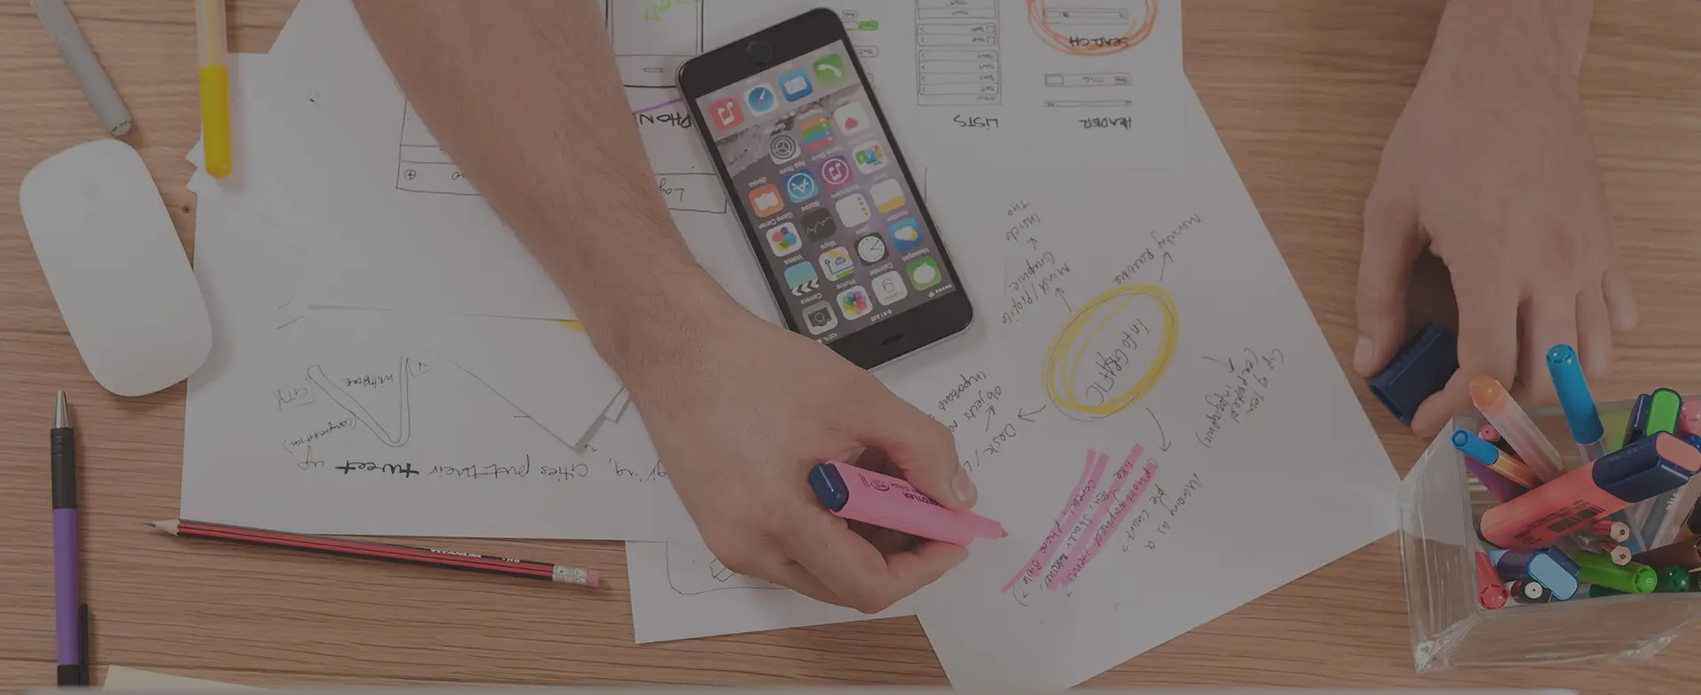
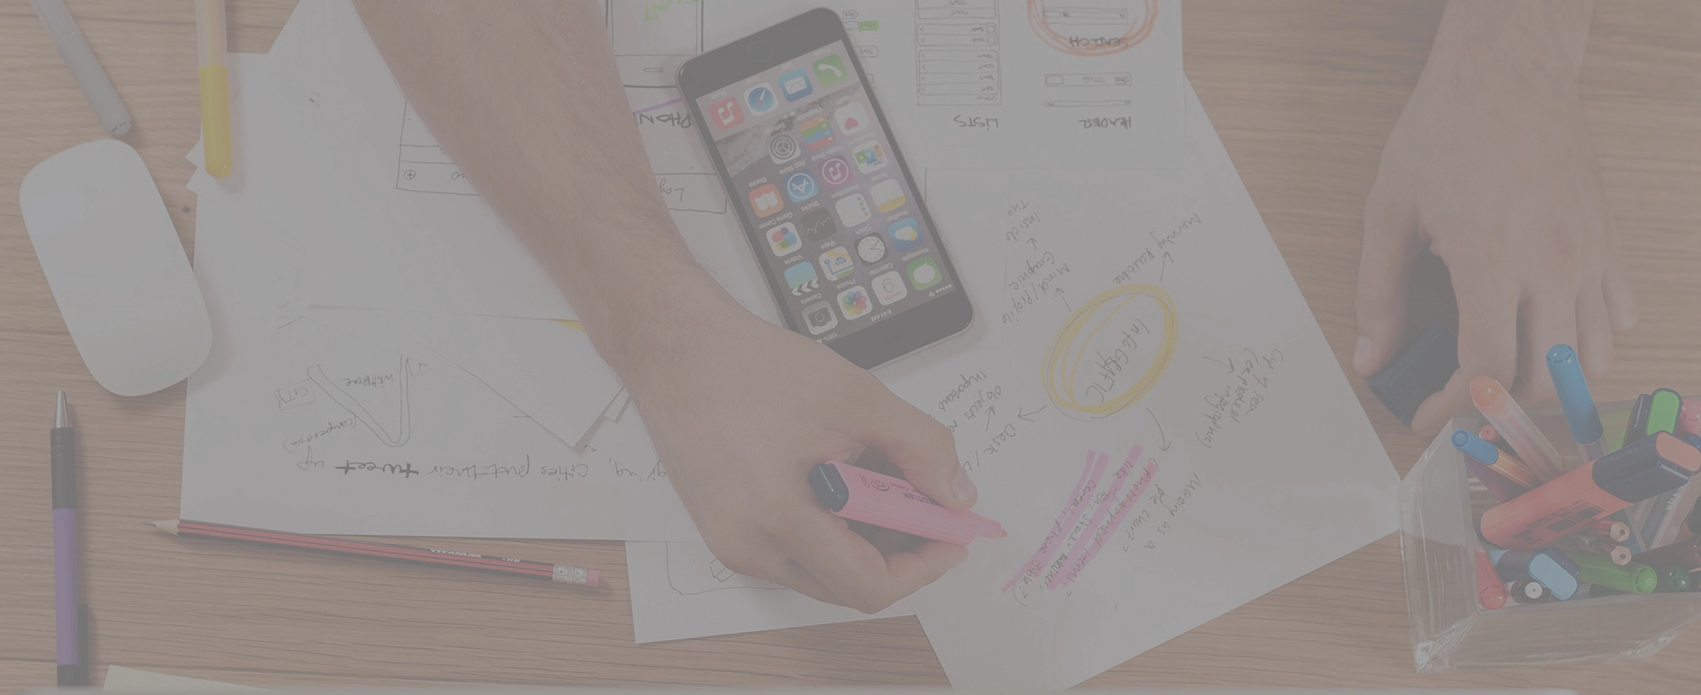
sup page2;html

diff --git a/style.min.css b/style.min.css
@@ -1,1 +1,1 @@
-body{margin:0;padding:0;background:#fff;overflow-x:hidden;-webkit-font-smoothing:antialiased;-moz-osx-font-smoothing:grayscale}a,button{transition:all .3s ease-in-out;outline:0!important}a:hover{text-decoration:none;cursor:pointer}#page-loading-blocs-notifaction{position:fixed;top:0;bottom:0;width:100%;z-index:100000;background:#fff url(img/pageload-spinner.gif) no-repeat center center}.bloc{width:100%;clear:both;background:50% 50% no-repeat;padding:0 50px;-webkit-background-size:cover;-moz-background-size:cover;-o-background-size:cover;background-size:cover;position:relative}.bloc .container{padding-left:0;padding-right:0}.bloc-lg{padding:100px 50px}.bloc-md{padding:50px}.bloc-sm{padding:20px 50px}.bg-b-edge,.bg-bl-edge,.bg-br-edge,.bg-center,.bg-l-edge,.bg-r-edge,.bg-repeat,.bg-t-edge,.bg-tl-edge,.bg-tr-edge{-webkit-background-size:auto!important;-moz-background-size:auto!important;-o-background-size:auto!important;background-size:auto!important}.bg-repeat{background:repeat}.bg-t-edge{background:top no-repeat}.bloc-bg-texture::before{content:"";background-size:2px 2px;position:absolute;top:0;bottom:0;left:0;right:0}.texture-paper::before{background:url(img/texture-paper.png);background-size:280px 280px}.b-parallax{background-attachment:fixed}.d-bloc{color:rgba(255,255,255,.7)}.d-bloc button:hover{color:rgba(255,255,255,.9)}.d-bloc .icon-round,.d-bloc .icon-rounded,.d-bloc .icon-semi-rounded-a,.d-bloc .icon-semi-rounded-b,.d-bloc .icon-square{border-color:rgba(255,255,255,.9)}.d-bloc .divider-h span{border-color:rgba(255,255,255,.2)}.d-bloc .a-btn,.d-bloc .navbar a,.d-bloc .navbar-brand,.d-bloc a .icon-lg,.d-bloc a .icon-md,.d-bloc a .icon-sm,.d-bloc a .icon-xl,.d-bloc h1 a,.d-bloc h2 a,.d-bloc h3 a,.d-bloc h4 a,.d-bloc h5 a,.d-bloc h6 a,.d-bloc p a{color:rgba(255,255,255,.6)}.d-bloc .a-btn:hover,.d-bloc .navbar a:hover,.d-bloc .navbar-brand:hover,.d-bloc a:hover .icon-lg,.d-bloc a:hover .icon-md,.d-bloc a:hover .icon-sm,.d-bloc a:hover .icon-xl,.d-bloc h1 a:hover,.d-bloc h2 a:hover,.d-bloc h3 a:hover,.d-bloc h4 a:hover,.d-bloc h5 a:hover,.d-bloc h6 a:hover,.d-bloc p a:hover{color:rgba(255,255,255,1)}.d-bloc .navbar-toggle .icon-bar{background:rgba(255,255,255,1)}.d-bloc .btn-wire,.d-bloc .btn-wire:hover{color:rgba(255,255,255,1);border-color:rgba(255,255,255,1)}.d-bloc .panel{color:rgba(0,0,0,.5)}.d-bloc .panel button:hover{color:rgba(0,0,0,.7)}.d-bloc .panel icon{border-color:rgba(0,0,0,.7)}.d-bloc .panel .divider-h span{border-color:rgba(0,0,0,.1)}.d-bloc .panel .a-btn{color:rgba(0,0,0,.6)}.d-bloc .panel .a-btn:hover{color:rgba(0,0,0,1)}.d-bloc .panel .btn-wire,.d-bloc .panel .btn-wire:hover{color:rgba(0,0,0,.7);border-color:rgba(0,0,0,.3)}.d-bloc .panel,.l-bloc{color:rgba(0,0,0,.5)}.d-bloc .panel button:hover,.l-bloc button:hover{color:rgba(0,0,0,.7)}.l-bloc .icon-round,.l-bloc .icon-rounded,.l-bloc .icon-semi-rounded-a,.l-bloc .icon-semi-rounded-b,.l-bloc .icon-square{border-color:rgba(0,0,0,.7)}.d-bloc .panel .divider-h span,.l-bloc .divider-h span{border-color:rgba(0,0,0,.1)}.d-bloc .panel .a-btn,.l-bloc .a-btn,.l-bloc .navbar a,.l-bloc .navbar-brand,.l-bloc a .icon-lg,.l-bloc a .icon-md,.l-bloc a .icon-sm,.l-bloc a .icon-xl,.l-bloc h1 a,.l-bloc h2 a,.l-bloc h3 a,.l-bloc h4 a,.l-bloc h5 a,.l-bloc h6 a,.l-bloc p a{color:rgba(0,0,0,.6)}.d-bloc .panel .a-btn:hover,.l-bloc .a-btn:hover,.l-bloc .navbar a:hover,.l-bloc .navbar-brand:hover,.l-bloc a:hover .icon-lg,.l-bloc a:hover .icon-md,.l-bloc a:hover .icon-sm,.l-bloc a:hover .icon-xl,.l-bloc h1 a:hover,.l-bloc h2 a:hover,.l-bloc h3 a:hover,.l-bloc h4 a:hover,.l-bloc h5 a:hover,.l-bloc h6 a:hover,.l-bloc p a:hover{color:rgba(0,0,0,1)}.l-bloc .navbar-toggle .icon-bar{color:rgba(0,0,0,.6)}.d-bloc .panel .btn-wire,.d-bloc .panel .btn-wire:hover,.l-bloc .btn-wire,.l-bloc .btn-wire:hover{color:rgba(0,0,0,.7);border-color:rgba(0,0,0,.3)}.voffset{margin-top:30px}.voffset-lg{margin-top:80px}.row-no-gutters{margin-right:0;margin-left:0}.row.row-no-gutters>[class*=" col-"],.row.row-no-gutters>[class^=col-]{padding-right:0;padding-left:0}#bloc-1-hero h1{font-size:32px}.navbar{margin-bottom:0;z-index:1}.navbar-brand{height:auto;padding:3px 15px;font-size:25px;font-weight:400;font-weight:600;line-height:44px}.navbar-brand img{max-height:200px;margin:0 5px 0 0;display:inline}.navbar-brand img[src$=svg]{min-width:100px}.nav-center .navbar-brand img{margin:0}.navbar .nav{padding-top:2px;margin-right:-16px;float:right;z-index:1}.nav>li{float:left;margin-top:4px;font-size:16px}.navbar-nav .open .dropdown-menu>li>a{text-align:inherit}.nav>li a:focus,.nav>li a:hover{background:0 0}.navbar-toggle{margin:10px 10px 0 0;border:0}.navbar-toggle:hover{background:0 0!important}.navbar-toggle .icon-bar{background-color:rgba(0,0,0,.5);width:26px}.nav-invert .navbar .nav{float:left}.nav-invert .navbar-brand,.nav-invert .navbar-header{float:right;position:relative;z-index:2}@media (min-width:768px){.site-navigation{position:absolute;top:50%;right:20px;transform:translate(0,-50%);-webkit-transform:translateY(-50%)}.nav>li .dropdown-menu a,.nav>li .dropdown-menu a:hover{color:#484848}.nav-invert .site-navigation{left:0;right:0}.nav-center{text-align:center}.nav-center .navbar-header{width:100%}.nav-center .nav>li,.nav-center .navbar-brand,.nav-center .navbar-header{float:none;display:inline-block}.nav-center .site-navigation{position:relative;width:100%;right:0;margin-right:0;margin-top:20px}.nav-center.mini-nav .navbar-toggle{float:none;margin:10px auto 0}}.nav>li>.dropdown a{background:0 0!important;display:block;padding:14px 15px}nav .caret{margin:0 5px}.dropdown-menu .dropdown-menu{top:-8px;left:100%}.dropdown-menu .dropmenu-flow-right{top:100%;left:0;margin-left:-1px;border-top-left-radius:0;border-top-right-radius:0}.dropdown-menu .dropdown span{border:4px solid #000;border-top-color:transparent;border-right-color:transparent;border-bottom-color:transparent;margin:6px -5px 0 0!important;float:right}.mg-md{margin-top:10px;margin-bottom:20px}.mg-lg{margin-top:10px;margin-bottom:40px}.btn{margin:0 5px 5px 0}.btn.pull-right{margin:0 0 5px 5px}.btn-d,.btn-d:focus,.btn-d:hover{color:#fff;background:rgba(0,0,0,.3)}button{outline:0!important}.btn-rd{border-radius:40px}.btn-clean{border:1px solid rgba(0,0,0,.08);border-bottom-color:rgba(0,0,0,.1);text-shadow:0 1px 0 rgba(0,0,1,.1);box-shadow:0 1px 3px rgba(0,0,1,.25),inset 0 1px 0 0 rgba(255,255,255,.15)}.icon-md{font-size:30px!important}.icon-lg{font-size:60px!important}.sm-shadow{text-shadow:0 1px 2px rgba(0,0,0,.3)}.panel-sq,.panel-sq .panel-footer,.panel-sq .panel-heading{border-radius:0}.panel-rd{border-radius:30px}.panel-rd .panel-heading{border-radius:29px 29px 0 0}.panel-rd .panel-footer{border-radius:0 0 29px 29px}.form-control{border-color:rgba(0,0,0,.1);box-shadow:none}.scrollToTop{width:40px;height:40px;position:fixed;bottom:20px;right:20px;opacity:0;z-index:500;transition:all .3s ease-in-out}.scrollToTop span{margin-top:6px}.showScrollTop{font-size:14px;opacity:1}a[data-lightbox]{position:relative;display:block;text-align:center}a[data-lightbox]:hover::before{content:"+";font-family:HelveticaNeue-Light,"Helvetica Neue Light","Helvetica Neue",Helvetica,Arial;font-size:32px;width:50px;height:50px;margin-left:-25px;border-radius:50%;background:rgba(0,0,0,.6);color:#fff;font-weight:100;z-index:1;position:absolute;top:50%;transform:translateY(-50%);-webkit-transform:translateY(-50%)}a[data-lightbox]:hover img{opacity:.6;-webkit-animation-fill-mode:none;animation-fill-mode:none}#lightbox-modal{display:flex;align-items:center}#lightbox-modal .modal-dialog{width:90%;max-width:900px;margin:0 auto 0}#lightbox-modal .modal-dialog img{max-height:90vh;margin:0 auto}.lightbox-caption{padding:20px;color:#fff;background:rgba(0,0,0,.5);position:absolute;left:15px;right:15px;bottom:5px}.close-lightbox{color:#fff;font-size:30px;position:absolute;top:20px;right:20px;z-index:20;background:rgba(0,0,0,.5);border:none;line-height:30px;padding:0 9px 5px;opacity:.3}.close-lightbox:hover,.next-lightbox:hover,.prev-lightbox:hover{opacity:1;color:#fff}.next-lightbox,.prev-lightbox{font-size:20px;color:rgba(255,255,255,.9);background:rgba(0,0,0,.5);transition:all .2s ease-in-out;position:absolute;top:45%;z-index:1;opacity:.4}.next-lightbox{padding:6px 8px 1px 13px;right:25px}.prev-lightbox{padding:6px 13px 1px 10px;left:25px}.snapshot-lb .modal-body{padding-bottom:45px}.snapshot-lb .lightbox-caption{padding:0;color:rgba(0,0,0,.5);background:0 0}.btn,a,h1,h2,h3,h4,h5,h6,label,p{font-family:helvetica;font-weight:400;color:#575757!important}.container{max-width:1000px}.hero-bloc-text{font-size:38px}.hero-bloc-text-sub{font-size:36px}.statement-bloc-text{line-height:26px;font-style:italic;font-size:20px;text-align:center;font-weight:lighter;max-width:520px;margin:auto auto auto auto}p{font-size:14px}.tight-width-whitespace{max-width:600px;margin:auto auto auto auto}.h1{font-size:20px;font-family:"Open Sans"}.cta-hero{margin-top:22px;color:#fff!important;text-transform:uppercase;padding:12px 28px 12px 28px;font-size:16px;font-weight:700}.social{max-width:400px;margin:auto auto auto auto}h2{font-size:22px;line-height:1.4em}h3{font-size:15px;text-transform:uppercase;font-weight:700;color:#333!important}.med-width-whitespace{max-width:800px;margin:auto auto auto auto;box-shadow:0 0 0 #000}h1{color:#333!important}h4{color:#333!important}.icons{margin-bottom:14px;margin-top:24px}.white{color:#fff!important}.portfolio-thumb{margin-bottom:24px}.portfolio-row{margin-bottom:44px;margin-top:50px}.avatar{box-shadow:0 4px 9px rgba(0,0,0,.3)}.black-background{background-color:rgba(165,147,99,.7);padding:40px 40px 40px 40px}.bold-link{font-weight:900;text-decoration:underline!important}.bgc-white{background-color:#fff}.bgc-dark-slate-blue{background-color:#364577}.bgc-atomic-tangerine{background-color:#f3976c}.tc-white{color:#f3976c!important}.btn-atomic-tangerine{background:#f3976c;color:#fff!important}.btn-atomic-tangerine:hover{background:#c27956!important;color:#fff!important}.ltc-white{color:#fff!important}.ltc-white:hover{color:#ccc!important}.ltc-atomic-tangerine{color:#f3976c!important}.ltc-atomic-tangerine:hover{color:#c27956!important}.icon-dark-slate-blue{color:#364577!important;border-color:#364577!important}.bg-dots-bg{background-image:url(img/dots-bg.png)}.bg-lines-h2-bg{background-image:url(img/lines-h2-bg.png)}.bg-banniere{background-image:url(img/agence-la-panthere.webp)}.bg-presentation{background-image:url(img/image-de-presentation.webp)}@media (max-width:1024px){.bloc{padding-left:20px;padding-right:20px}.bloc-tile-2.full-width-bloc .container,.bloc-tile-3.full-width-bloc .container,.bloc-tile-4.full-width-bloc .container,.bloc.full-width-bloc{padding-left:0;padding-right:0}}@media (max-width:992px) and (min-width:768px){.navbar .nav{max-width:80%}.nav-center.navbar .nav{max-width:100%}}@media only screen and (min-device-width:768px) and (max-device-width:1024px) and (orientation:landscape){.b-parallax{background-attachment:scroll}}@media only screen and (min-device-width:1024px) and (max-device-width:1366px) and (-webkit-min-device-pixel-ratio:1.5){.b-parallax{background-attachment:scroll}}@media (max-width:991px){.container{width:100%}.b-parallax{background-attachment:scroll}#hero-bloc,.page-container{overflow-x:hidden;position:relative}.bloc{padding-left:constant(safe-area-inset-left);padding-right:constant(safe-area-inset-right)}.bloc-group,.bloc-group .bloc{display:block;width:100%}.bloc-fill-screen .fill-bloc-bottom-edge,.bloc-fill-screen .fill-bloc-top-edge{padding:0 20px;padding-left:constant(safe-area-inset-left);padding-right:constant(safe-area-inset-right)}}@media (max-width:767px){.page-container{overflow-x:hidden;position:relative}#disqus_thread,h1,h2,h3,h4,h5,h6,p{padding-left:10px!important;padding-right:10px!important}.b-parallax{background-attachment:scroll}.navbar .nav{padding-top:0;border-top:1px solid rgba(0,0,0,.2);float:none!important}.navbar.row{margin-left:0;margin-right:0}.site-navigation{position:inherit;transform:none;-webkit-transform:none;-ms-transform:none}.nav>li{margin-top:0;border-bottom:1px solid rgba(0,0,0,.1);background:rgba(0,0,0,.05);text-align:left;padding-left:15px;width:100%}.nav>li:hover{background:rgba(0,0,0,.08)}.dropdown .dropdown a .caret{float:none;margin:5px 0 0 10px!important;border:4px solid #000;border-bottom-color:transparent;border-right-color:transparent;border-left-color:transparent}#hero-bloc .navbar .nav{background:rgba(0,0,0,.8)}#hero-bloc .navbar .nav a{color:rgba(255,255,255,.6)}.hero{padding:50px 0}.hero-nav{left:-1px;right:-1px}.navbar-collapse{padding:0;overflow-x:hidden;-webkit-box-shadow:none;box-shadow:none}.navbar-brand img{max-height:40px;width:auto}.nav-invert .navbar-header{float:none;width:100%}.nav-invert .navbar-toggle{float:left;margin-left:10px}.bloc{padding-left:0;padding-right:0}.bloc-lg,.bloc-xl,.bloc-xxl{padding:40px 0}.bloc-md,.bloc-sm{padding-left:0;padding-right:0}.bloc-fill-screen .fill-bloc-bottom-edge,.bloc-fill-screen .fill-bloc-top-edge,.bloc-tile-2 .container,.bloc-tile-3 .container,.bloc-tile-4 .container{padding-left:0;padding-right:0}.a-block{padding:0 10px}.btn-dwn{display:none}.voffset{margin-top:5px}.voffset-md{margin-top:20px}.voffset-lg{margin-top:30px}form{padding:5px}.close-lightbox{display:inline-block}.blocsapp-device-iphone5{background-size:216px 425px;padding-top:60px;width:216px;height:425px}.blocsapp-device-iphone5 img{width:180px;height:320px}}@media (max-width:400px){.bloc{padding-left:0;padding-right:0}}@media (max-width:767px){.bloc-mob-center-text{text-align:center}}
+body{margin:0;padding:0;background:#fff;overflow-x:hidden;-webkit-font-smoothing:antialiased;-moz-osx-font-smoothing:grayscale}a,button{transition:all .3s ease-in-out;outline:0!important}a:hover{text-decoration:none;cursor:pointer}#page-loading-blocs-notifaction{position:fixed;top:0;bottom:0;width:100%;z-index:100000;background:#fff url(img/pageload-spinner.gif) no-repeat center center}.bloc{width:100%;clear:both;background:50% 50% no-repeat;padding:0 50px;-webkit-background-size:cover;-moz-background-size:cover;-o-background-size:cover;background-size:cover;position:relative}.bloc .container{padding-left:0;padding-right:0}.bloc-lg{padding:100px 50px}.bloc-md{padding:50px}.bloc-sm{padding:20px 50px}.bg-b-edge,.bg-bl-edge,.bg-br-edge,.bg-center,.bg-l-edge,.bg-r-edge,.bg-repeat,.bg-t-edge,.bg-tl-edge,.bg-tr-edge{-webkit-background-size:auto!important;-moz-background-size:auto!important;-o-background-size:auto!important;background-size:auto!important}.bg-repeat{background:repeat}.bg-t-edge{background:top no-repeat}.bloc-bg-texture::before{content:"";background-size:2px 2px;position:absolute;top:0;bottom:0;left:0;right:0}.texture-paper::before{background:url(img/texture-paper.png);background-size:280px 280px}.b-parallax{background-attachment:fixed}.d-bloc{color:rgba(255,255,255,.7)}.d-bloc button:hover{color:rgba(255,255,255,.9)}.d-bloc .icon-round,.d-bloc .icon-rounded,.d-bloc .icon-semi-rounded-a,.d-bloc .icon-semi-rounded-b,.d-bloc .icon-square{border-color:rgba(255,255,255,.9)}.d-bloc .divider-h span{border-color:rgba(255,255,255,.2)}.d-bloc .a-btn,.d-bloc .navbar a,.d-bloc .navbar-brand,.d-bloc a .icon-lg,.d-bloc a .icon-md,.d-bloc a .icon-sm,.d-bloc a .icon-xl,.d-bloc h1 a,.d-bloc h2 a,.d-bloc h3 a,.d-bloc h4 a,.d-bloc h5 a,.d-bloc h6 a,.d-bloc p a{color:rgba(255,255,255,.6)}.d-bloc .a-btn:hover,.d-bloc .navbar a:hover,.d-bloc .navbar-brand:hover,.d-bloc a:hover .icon-lg,.d-bloc a:hover .icon-md,.d-bloc a:hover .icon-sm,.d-bloc a:hover .icon-xl,.d-bloc h1 a:hover,.d-bloc h2 a:hover,.d-bloc h3 a:hover,.d-bloc h4 a:hover,.d-bloc h5 a:hover,.d-bloc h6 a:hover,.d-bloc p a:hover{color:rgba(255,255,255,1)}.d-bloc .navbar-toggle .icon-bar{background:rgba(255,255,255,1)}.d-bloc .btn-wire,.d-bloc .btn-wire:hover{color:rgba(255,255,255,1);border-color:rgba(255,255,255,1)}.d-bloc .panel{color:rgba(0,0,0,.5)}.d-bloc .panel button:hover{color:rgba(0,0,0,.7)}.d-bloc .panel icon{border-color:rgba(0,0,0,.7)}.d-bloc .panel .divider-h span{border-color:rgba(0,0,0,.1)}.d-bloc .panel .a-btn{color:rgba(0,0,0,.6)}.d-bloc .panel .a-btn:hover{color:rgba(0,0,0,1)}.d-bloc .panel .btn-wire,.d-bloc .panel .btn-wire:hover{color:rgba(0,0,0,.7);border-color:rgba(0,0,0,.3)}.d-bloc .panel,.l-bloc{color:rgba(0,0,0,.5)}.d-bloc .panel button:hover,.l-bloc button:hover{color:rgba(0,0,0,.7)}.l-bloc .icon-round,.l-bloc .icon-rounded,.l-bloc .icon-semi-rounded-a,.l-bloc .icon-semi-rounded-b,.l-bloc .icon-square{border-color:rgba(0,0,0,.7)}.d-bloc .panel .divider-h span,.l-bloc .divider-h span{border-color:rgba(0,0,0,.1)}.d-bloc .panel .a-btn,.l-bloc .a-btn,.l-bloc .navbar a,.l-bloc .navbar-brand,.l-bloc a .icon-lg,.l-bloc a .icon-md,.l-bloc a .icon-sm,.l-bloc a .icon-xl,.l-bloc h1 a,.l-bloc h2 a,.l-bloc h3 a,.l-bloc h4 a,.l-bloc h5 a,.l-bloc h6 a,.l-bloc p a{color:rgba(0,0,0,.6)}.d-bloc .panel .a-btn:hover,.l-bloc .a-btn:hover,.l-bloc .navbar a:hover,.l-bloc .navbar-brand:hover,.l-bloc a:hover .icon-lg,.l-bloc a:hover .icon-md,.l-bloc a:hover .icon-sm,.l-bloc a:hover .icon-xl,.l-bloc h1 a:hover,.l-bloc h2 a:hover,.l-bloc h3 a:hover,.l-bloc h4 a:hover,.l-bloc h5 a:hover,.l-bloc h6 a:hover,.l-bloc p a:hover{color:rgba(0,0,0,1)}.l-bloc .navbar-toggle .icon-bar{color:rgba(0,0,0,.6)}.d-bloc .panel .btn-wire,.d-bloc .panel .btn-wire:hover,.l-bloc .btn-wire,.l-bloc .btn-wire:hover{color:rgba(0,0,0,.7);border-color:rgba(0,0,0,.3)}.voffset{margin-top:30px}.voffset-lg{margin-top:80px}.row-no-gutters{margin-right:0;margin-left:0}.row.row-no-gutters>[class*=" col-"],.row.row-no-gutters>[class^=col-]{padding-right:0;padding-left:0}#bloc-1-hero h1{font-size:32px}.navbar{margin-bottom:0;z-index:1}.navbar-brand{height:auto;padding:3px 15px;font-size:25px;font-weight:400;font-weight:600;line-height:44px}.navbar-brand img{max-height:200px;margin:0 5px 0 0;display:inline}.navbar-brand img[src$=svg]{min-width:100px}.nav-center .navbar-brand img{margin:0}.navbar .nav{padding-top:2px;margin-right:-16px;float:right;z-index:1}.nav>li{float:left;margin-top:4px;font-size:16px}.navbar-nav .open .dropdown-menu>li>a{text-align:inherit}.nav>li a:focus,.nav>li a:hover{background:0 0}.navbar-toggle{margin:10px 10px 0 0;border:0}.navbar-toggle:hover{background:0 0!important}.navbar-toggle .icon-bar{background-color:rgba(0,0,0,.5);width:26px}.nav-invert .navbar .nav{float:left}.nav-invert .navbar-brand,.nav-invert .navbar-header{float:right;position:relative;z-index:2}.navbar-header{text-align:center}@media (min-width:768px){.site-navigation{position:absolute;top:50%;right:20px;transform:translate(0,-50%);-webkit-transform:translateY(-50%)}.nav>li .dropdown-menu a,.nav>li .dropdown-menu a:hover{color:#484848}.nav-invert .site-navigation{left:0;right:0}.nav-center{text-align:center}.nav-center .navbar-header{width:100%}.nav-center .nav>li,.nav-center .navbar-brand,.nav-center .navbar-header{float:none;display:inline-block}.navbar-header{text-align:center}.nav-center .site-navigation{position:relative;width:100%;right:0;margin-right:0;margin-top:20px}.nav-center.mini-nav .navbar-toggle{float:none;margin:10px auto 0}}.nav>li>.dropdown a{background:0 0!important;display:block;padding:14px 15px}nav .caret{margin:0 5px}.dropdown-menu .dropdown-menu{top:-8px;left:100%}.dropdown-menu .dropmenu-flow-right{top:100%;left:0;margin-left:-1px;border-top-left-radius:0;border-top-right-radius:0}.dropdown-menu .dropdown span{border:4px solid #000;border-top-color:transparent;border-right-color:transparent;border-bottom-color:transparent;margin:6px -5px 0 0!important;float:right}.mg-md{margin-top:10px;margin-bottom:20px}.mg-lg{margin-top:10px;margin-bottom:40px}.btn{margin:0 5px 5px 0}.btn.pull-right{margin:0 0 5px 5px}.btn-d,.btn-d:focus,.btn-d:hover{color:#fff;background:rgba(0,0,0,.3)}button{outline:0!important}.btn-rd{border-radius:40px}.btn-clean{border:1px solid rgba(0,0,0,.08);border-bottom-color:rgba(0,0,0,.1);text-shadow:0 1px 0 rgba(0,0,1,.1);box-shadow:0 1px 3px rgba(0,0,1,.25),inset 0 1px 0 0 rgba(255,255,255,.15)}.icon-md{font-size:30px!important}.icon-lg{font-size:60px!important}.sm-shadow{text-shadow:0 1px 2px rgba(0,0,0,.3)}.panel-sq,.panel-sq .panel-footer,.panel-sq .panel-heading{border-radius:0}.panel-rd{border-radius:30px}.panel-rd .panel-heading{border-radius:29px 29px 0 0}.panel-rd .panel-footer{border-radius:0 0 29px 29px}.form-control{border-color:rgba(0,0,0,.1);box-shadow:none}.scrollToTop{width:40px;height:40px;position:fixed;bottom:20px;right:20px;opacity:0;z-index:500;transition:all .3s ease-in-out}.scrollToTop span{margin-top:6px}.showScrollTop{font-size:14px;opacity:1}a[data-lightbox]{position:relative;display:block;text-align:center}a[data-lightbox]:hover::before{content:"+";font-family:HelveticaNeue-Light,"Helvetica Neue Light","Helvetica Neue",Helvetica,Arial;font-size:32px;width:50px;height:50px;margin-left:-25px;border-radius:50%;background:rgba(0,0,0,.6);color:#fff;font-weight:100;z-index:1;position:absolute;top:50%;transform:translateY(-50%);-webkit-transform:translateY(-50%)}a[data-lightbox]:hover img{opacity:.6;-webkit-animation-fill-mode:none;animation-fill-mode:none}#lightbox-modal{display:flex;align-items:center}#lightbox-modal .modal-dialog{width:90%;max-width:900px;margin:0 auto 0}#lightbox-modal .modal-dialog img{max-height:90vh;margin:0 auto}.lightbox-caption{padding:20px;color:#fff;background:rgba(0,0,0,.5);position:absolute;left:15px;right:15px;bottom:5px}.close-lightbox{color:#fff;font-size:30px;position:absolute;top:20px;right:20px;z-index:20;background:rgba(0,0,0,.5);border:none;line-height:30px;padding:0 9px 5px;opacity:.3}.close-lightbox:hover,.next-lightbox:hover,.prev-lightbox:hover{opacity:1;color:#fff}.next-lightbox,.prev-lightbox{font-size:20px;color:rgba(255,255,255,.9);background:rgba(0,0,0,.5);transition:all .2s ease-in-out;position:absolute;top:45%;z-index:1;opacity:.4}.next-lightbox{padding:6px 8px 1px 13px;right:25px}.prev-lightbox{padding:6px 13px 1px 10px;left:25px}.snapshot-lb .modal-body{padding-bottom:45px}.snapshot-lb .lightbox-caption{padding:0;color:rgba(0,0,0,.5);background:0 0}.btn,a,h1,h2,h3,h4,h5,h6,label,p{font-family:helvetica;font-weight:400;color:#575757!important}.container{max-width:1000px}.hero-bloc-text{font-size:38px}.hero-bloc-text-sub{font-size:36px}.statement-bloc-text{line-height:26px;font-style:italic;font-size:20px;text-align:center;font-weight:lighter;max-width:520px;margin:auto auto auto auto}p{font-size:14px}.tight-width-whitespace{max-width:600px;margin:auto auto auto auto}.h1{font-size:20px;font-family:"Open Sans"}.cta-hero{margin-top:22px;color:#fff!important;text-transform:uppercase;padding:12px 28px 12px 28px;font-size:16px;font-weight:700}.social{max-width:400px;margin:auto auto auto auto}h2{font-size:22px;line-height:1.4em}h3{font-size:15px;text-transform:uppercase;font-weight:700;color:#333!important}.med-width-whitespace{max-width:800px;margin:auto auto auto auto;box-shadow:0 0 0 #000}h1{color:#333!important}h4{color:#333!important}.icons{margin-bottom:14px;margin-top:24px}.white{color:#fff!important}.portfolio-thumb{margin-bottom:24px}.portfolio-row{margin-bottom:44px;margin-top:50px}.avatar{box-shadow:0 4px 9px rgba(0,0,0,.3)}.black-background{background-color:rgba(165,147,99,.7);padding:40px 40px 40px 40px}.bold-link{font-weight:900;text-decoration:underline!important}.bgc-white{background-color:#fff}.bgc-dark-slate-blue{background-color:#364577}.bgc-atomic-tangerine{background-color:#f3976c}.tc-white{color:#f3976c!important}.btn-atomic-tangerine{background:#ad3201;color:#fff!important}.btn-atomic-tangerine:hover{background:#c27956!important;color:#fff!important}.ltc-white{color:#fff!important}.ltc-white:hover{color:#ccc!important}.ltc-atomic-tangerine{color:#f3976c!important}.ltc-atomic-tangerine:hover{color:#c27956!important}.icon-dark-slate-blue{color:#364577!important;border-color:#364577!important}.bg-dots-bg{background-image:url(img/dots-bg.png)}.bg-lines-h2-bg{background-image:url(img/lines-h2-bg.png)}.bg-banniere{background-image:url(img/agence-la-panthere.webp);opacity:0,2}.bg-presentation{background-image:url(img/image-de-presentation.webp)}@media (max-width:1024px){.bloc{padding-left:20px;padding-right:20px}.bloc-tile-2.full-width-bloc .container,.bloc-tile-3.full-width-bloc .container,.bloc-tile-4.full-width-bloc .container,.bloc.full-width-bloc{padding-left:0;padding-right:0}}@media (max-width:992px) and (min-width:768px){.navbar .nav{max-width:80%}.nav-center.navbar .nav{max-width:100%}}@media only screen and (min-device-width:768px) and (max-device-width:1024px) and (orientation:landscape){.b-parallax{background-attachment:scroll}}@media only screen and (min-device-width:1024px) and (max-device-width:1366px) and (-webkit-min-device-pixel-ratio:1.5){.b-parallax{background-attachment:scroll}}@media (max-width:991px){.container{width:100%}.b-parallax{background-attachment:scroll}#hero-bloc,.page-container{overflow-x:hidden;position:relative}.bloc{padding-left:constant(safe-area-inset-left);padding-right:constant(safe-area-inset-right)}.bloc-group,.bloc-group .bloc{display:block;width:100%}.bloc-fill-screen .fill-bloc-bottom-edge,.bloc-fill-screen .fill-bloc-top-edge{padding:0 20px;padding-left:constant(safe-area-inset-left);padding-right:constant(safe-area-inset-right)}}@media (max-width:767px){.page-container{overflow-x:hidden;position:relative}#disqus_thread,h1,h2,h3,h4,h5,h6,p{padding-left:10px!important;padding-right:10px!important}.b-parallax{background-attachment:scroll}.navbar .nav{padding-top:0;border-top:1px solid rgba(0,0,0,.2);float:none!important}.navbar.row{margin-left:0;margin-right:0}.site-navigation{position:inherit;transform:none;-webkit-transform:none;-ms-transform:none}.nav>li{margin-top:0;border-bottom:1px solid rgba(0,0,0,.1);background:rgba(0,0,0,.05);text-align:left;padding-left:15px;width:100%}.nav>li:hover{background:rgba(0,0,0,.08)}.dropdown .dropdown a .caret{float:none;margin:5px 0 0 10px!important;border:4px solid #000;border-bottom-color:transparent;border-right-color:transparent;border-left-color:transparent}#hero-bloc .navbar .nav{background:rgba(0,0,0,.8)}#hero-bloc .navbar .nav a{color:rgba(255,255,255,.6)}.hero{padding:50px 0}.hero-nav{left:-1px;right:-1px}.navbar-collapse{padding:0;overflow-x:hidden;-webkit-box-shadow:none;box-shadow:none}.navbar-brand img{max-height:40px;width:auto}.nav-invert .navbar-header{float:none;width:100%;text-align:center}.nav-invert .navbar-toggle{float:left;margin-left:10px}.bloc{padding-left:0;padding-right:0}.bloc-lg,.bloc-xl,.bloc-xxl{padding:40px 0}.bloc-md,.bloc-sm{padding-left:0;padding-right:0}.bloc-fill-screen .fill-bloc-bottom-edge,.bloc-fill-screen .fill-bloc-top-edge,.bloc-tile-2 .container,.bloc-tile-3 .container,.bloc-tile-4 .container{padding-left:0;padding-right:0}.a-block{padding:0 10px}.btn-dwn{display:none}.voffset{margin-top:5px}.voffset-md{margin-top:20px}.voffset-lg{margin-top:30px}form{padding:5px}.close-lightbox{display:inline-block}.blocsapp-device-iphone5{background-size:216px 425px;padding-top:60px;width:216px;height:425px}.blocsapp-device-iphone5 img{width:180px;height:320px}}@media (max-width:400px){.bloc{padding-left:0;padding-right:0}}@media (max-width:767px){.bloc-mob-center-text{text-align:center}}

diff --git a/style.css b/style.css
@@ -362,6 +362,10 @@ a:hover {
     z-index: 2;
 }
 
+.navbar-header{
+    text-align: center;
+}
+
 @media (min-width: 768px) {
     .site-navigation {
         position: absolute;
@@ -390,6 +394,9 @@ a:hover {
         float: none;
         display: inline-block;
     }
+    .navbar-header{
+        text-align: center;
+    }    
     .nav-center .site-navigation {
         position: relative;
         width: 100%;
@@ -779,7 +786,8 @@ h4 {
 }
 
 .btn-atomic-tangerine {
-    background: #F3976C;
+    /*background: #d35d26;*/
+    background: #ad3201;
     color: #FFFFFF!important;
 }
 
@@ -819,6 +827,7 @@ h4 {
 
 .bg-banniere {
     background-image: url("img/agence-la-panthere.webp");
+    opacity: 0,2;
 }
 
 .bg-presentation {
@@ -968,6 +977,7 @@ h4 {
     .nav-invert .navbar-header {
         float: none;
         width: 100%;
+        text-align: center;
     }
     .nav-invert .navbar-toggle {
         float: left;

diff --git a/index.html b/index.html
@@ -43,17 +43,11 @@
 				
 				<img src="img/agence-la-panthere-monochrome.svg" alt="logo agence web design Lyon" height="40">
 				
-				<button id="nav-toggle" type="button" class="ui-navbar-toggle navbar-toggle" data-toggle="collapse" data-target=".navbar-1">
-					<span class="sr-only">Toggle navigation</span><span class="icon-bar"></span><span class="icon-bar"></span><span class="icon-bar"></span>
-				</button>
 			</div>
-<!--			<div class="collapse navbar-collapse navbar-1 special-dropdown-nav">
-				<ul class="site-navigation nav navbar-nav">
-					<li>
-						<a href="contact.html">Contact</a>
-					</li>
-				</ul>
-			</div> -->
+
+
+
+
 		</nav>
 	</div>
 </div>
